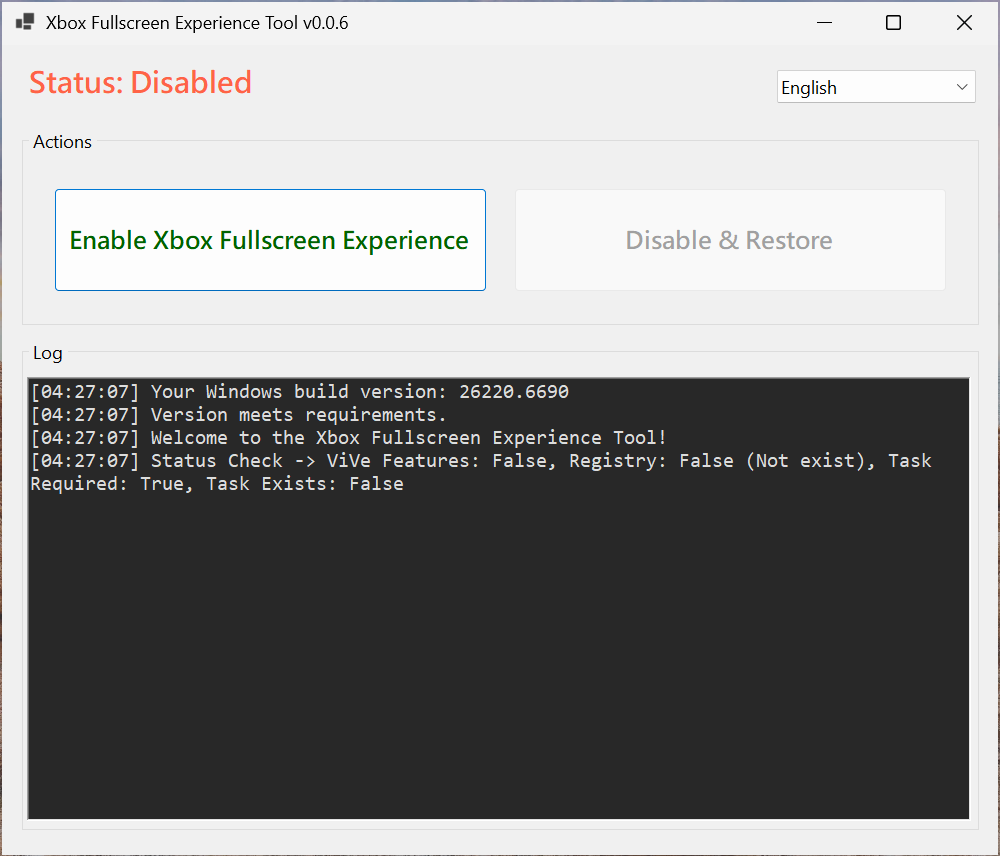
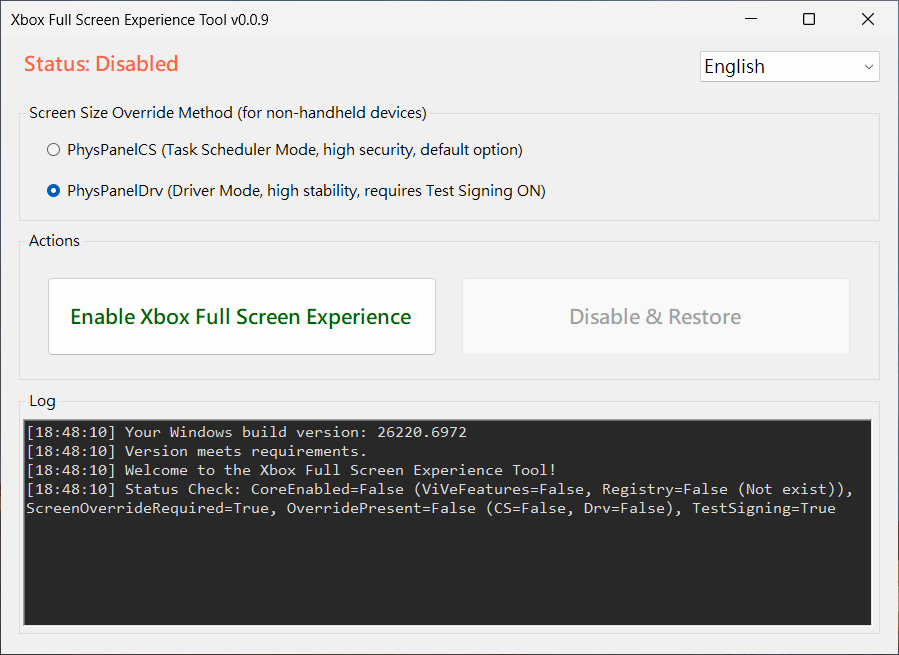
docs: Rework README for the new dual-mode override method
- Restructured the documentation to explain the two available override methods: the default Task Scheduler mode and the new, more robust Driver mode.
- Replaced the "Future Plans" section with a practical user guide, including detailed prerequisites for enabling Test Signing to use the `PhysPanelDrv` driver.
- Updated the minimum Windows build requirements to align with the new supported baseline.
- Revised the "Features" and "How to Use" sections to incorporate the mode selection workflow.

diff --git a/README.zh-TW.md b/README.zh-TW.md
@@ -11,10 +11,10 @@
 </p>
 
 <p align="center">
-<a href="https://github.com/8bit2qubit/XboxFullscreenExperienceTool/releases/latest"><img src="https://img.shields.io/github/v/release/8bit2qubit/XboxFullscreenExperienceTool?style=flat-square&color=blue" alt="最新版本"></a>
-<a href="https://github.com/8bit2qubit/XboxFullscreenExperienceTool/releases"><img src="https://img.shields.io/github/downloads/8bit2qubit/XboxFullscreenExperienceTool/total" alt="總下載量"></a>
+<a href="https://github.com/8bit2qubit/XboxFullScreenExperienceTool/releases/latest"><img src="https://img.shields.io/github/v/release/8bit2qubit/XboxFullScreenExperienceTool?style=flat-square&color=blue" alt="最新版本"></a>
+<a href="https://github.com/8bit2qubit/XboxFullScreenExperienceTool/releases"><img src="https://img.shields.io/github/downloads/8bit2qubit/XboxFullScreenExperienceTool/total" alt="總下載量"></a>
 <a href="#"><img src="https://img.shields.io/badge/tech-C%23%20%26%20.NET%208-blueviolet.svg?style=flat-square" alt="技術"></a>
-<a href="https://github.com/8bit2qubit/XboxFullscreenExperienceTool/blob/main/LICENSE"><img src="https://img.shields.io/github/license/8bit2qubit/XboxFullscreenExperienceTool" alt="授權條款"></a>
+<a href="https://github.com/8bit2qubit/XboxFullScreenExperienceTool/blob/main/LICENSE"><img src="https://img.shields.io/github/license/8bit2qubit/XboxFullScreenExperienceTool" alt="授權條款"></a>
 </p>
 
 一款簡單、安全的一鍵式工具，專為啟用 Windows 11 中隱藏的 Xbox 全螢幕遊戲體驗而生。本工具將繁複的底層設定全部自動化，讓您輕鬆享受專為遊戲手把最佳化的類主機介面。
@@ -31,44 +31,50 @@
 
 -----
 
-## 💡 未來規劃與技術挑戰
+## 💡 為桌機與筆電覆寫螢幕尺寸：選擇您的模式
 
-### 挑戰：為非掌上型裝置打造完美體驗
+Xbox 全螢幕體驗專為掌機尺寸的螢幕設計。若您使用的是**桌上型或筆記型電腦**，您的螢幕尺寸很可能超過支援範圍，此時就需要覆寫螢幕的實體尺寸。本工具為此提供了兩種模式。
 
-Xbox 全螢幕功能最適合小尺寸的掌上型裝置。若要在其他硬體上啟用此功能，就必須進行螢幕尺寸覆寫。這對於兩大主要使用者族群至關重要：一是**桌上型電腦**，其通常回報未定義 (0x0) 的實體尺寸；二是**筆記型電腦**，其螢幕幾乎總是大於 9.5 吋的掌機門檻。
+### 工作排程模式: `PhysPanelCS`
+此為預設選項，它簡單易用且無須額外的手動設定。它會在開機時排程一個工作來套用覆寫。然而，這在高速系統上會產生「競爭條件」(Race Condition)。如果您登入速度過快，Windows Shell 可能會在覆寫套用前就完成初始化，導致該次工作階段退回標準桌面。
 
-目前的方法是使用「工作排程器」在開機時套用此覆寫，將螢幕模擬為 7 吋大小，但這會產生「競爭條件」(Race Condition)。在一台配備高速 SSD 的電腦上，若您快速登入（特別是使用 Windows Hello），Windows Shell 會在覆寫成功套用前就完成初始化。結果就是，系統介面會以預設的螢幕設定啟動，導致該次登入無法啟用特殊的 Xbox 介面。
+### 驅動程式模式: `PhysPanelDrv`
+此進階模式使用一個自訂核心驅動程式，在系統開機的最早階段就套用螢幕尺寸覆寫，可徹底解決競爭條件問題。對於桌機與筆電，這是最穩定可靠的解決方案。
 
-### 解決方案與瓶頸
-
-終極的解決方案是一個名為 [`PhysPanelDrv`](https://github.com/8bit2qubit/PhysPanelDrv) 的核心驅動程式，它能在系統開機的最早階段就套用螢幕尺寸覆寫，從而徹底解決桌機與筆電上的競爭條件問題。然而，為了讓 Windows 信任此驅動程式，它需要來自高信譽來源的數位簽章，例如「EV 程式碼簽署憑證」（用以提交給微軟的證明流程），這對於獨立開發者而言是一個重大的技術障礙。**這意味著 `PhysPanelDrv` 目前是以概念驗證 (proof-of-concept) 的形式存在，而不是一個可公開發布的解決方案。**
+> #### **`PhysPanelDrv` 模式的前置作業**
+>
+> 安裝此**使用測試簽章的驅動程式**需要您手動停用「安全啟動」並啟用 Windows 的「測試簽署模式」。
+>
+> **步驟一：進入 BIOS 設定**
+> 1.  重新啟動電腦，在開機時按下指定按鍵 (通常是 `Del`, `F2`, `F10`, 或 `Esc`) 進入 BIOS/UEFI 設定。
+> 2.  找到並**關閉 Secure Boot (安全啟動)** 選項。
+> 3.  儲存設定並離開。
+>
+> **步驟二：啟用測試簽章**
+> 1.  電腦重啟進入 Windows 後，使用**系統管理員權限**打開終端機 (PowerShell 或 CMD)。
+> 2.  輸入以下指令，然後按下 Enter：
+>     ```
+>     bcdedit /set testsigning on
+>     ```
+> 3.  完成後，再次重新開機。
+>
+> 完成以上步驟後，您就可以在工具中選取 **`PhysPanelDrv`**。
 
 -----
 
 ## ⚙ 系統版本要求
 
-本工具**僅適用於 Windows 11 開發人員預覽版 (Dev Channel) 組建 `26220.6690` 或更新版本**。在不符要求的系統上，工具將提示錯誤並無法執行。
+本工具適用於 **Windows 11 Release Preview Channel 組建 `26200.7015` 或更新版本**。在不符要求的系統上，工具將提示錯誤並無法執行。
 
 > ### **如何判讀版本號 (非常重要！)**
 >
 > 當檢查版本時，**請務必查看小數點前的「主要版本號」**。小數點後的數字僅代表次要更新。
 >
-> * **不相容:** `26100.xxxx` (Release Build 24H2)
-> * **不相容:** `26200.xxxx` (Release Build 25H2)
-> * **相容:** `26220.6690` 或更新版本 (Dev Build 25H2)
+> *   **不相容:** `26100.xxxx` (Release Build 24H2)
+> *   **相容:** `26200.7015` 或更新版本 (Release Preview Build 25H2)
+> *   **相容:** `26220.6972` 或更新版本 (Dev Build 25H2)
 >
-> **範例：** `26200.6899` 這樣的版本是**不相容**的，因為它的主要版本號 **26200** 小於 (舊於) 所要求的 **26220**。
-
-> ### **為什麼只支援 Dev Channel？ (請務必閱讀)**
->
-> 這是一個常見問題。雖然 Xbox 全螢幕體驗功能也存在於其他版本中 (例如 25H2 正式版 `26200.xxxx`)，但決定僅支援 **Dev Channel** 是完全基於**品質與穩定性**的考量。
->
-> * **已知的問題 (Bug):** 非 Dev Channel 的版本存在著一些嚴重影響使用者體驗的錯誤，包括：
->     * **「工作檢視」介面** 的不穩定。
->     * **關閉應用程式時 (例如操作 'X' 按鈕)** 發生問題。
->     * 在 `26200.6899` 更新之前的版本，體驗尤其糟糕。
->
-> Dev Channel 提供了遠比其他版本更穩定、更成熟的功能實作。未來如果這些問題在公開版本中得到修復，將會考慮支援其他頻道。
+> **範例：** `26200.6899` 這樣的版本是**不相容**的，因為它的次要版本號 `.6899` 小於 (舊於) 所要求的 `.7015`。
 
 如果您的系統不符合需求，可參考此份完整的升級教學指南，其中引導您加入「Windows 測試人員計畫」並升級至正確的組建版本：
 * **[繁體中文指南 (Traditional Chinese Guide)](https://github.com/8bit2qubit/xbox-fullscreen-experience-guide/blob/main/README.zh-TW.md)**
@@ -77,7 +83,7 @@ Xbox 全螢幕功能最適合小尺寸的掌上型裝置。若要在其他硬體
 
 請在下載前確認您的作業系統版本。
 
-**[➡ 前往發行頁面下載最新版本](https://github.com/8bit2qubit/XboxFullscreenExperienceTool/releases/latest)**
+**[➡ 前往發行頁面下載最新版本](https://github.com/8bit2qubit/XboxFullScreenExperienceTool/releases/latest)**
 
 -----
 
@@ -94,9 +100,9 @@ Xbox 全螢幕功能最適合小尺寸的掌上型裝置。若要在其他硬體
 *   **一鍵切換**：提供直觀的介面，只需點選一次即可啟用或停用 Xbox 全螢幕體驗。
 *   **自動系統檢查**：啟動時自動驗證您的 Windows 組建版本，確保符合執行要求。
 *   **硬體類型模擬**：若您使用桌上型或筆記型電腦，工具會自動將裝置類型模擬為掌機，以滿足啟用條件。
+*   **可選覆寫模式**：為桌機與筆電提供 `PhysPanelCS` (工作排程模式) 或 `PhysPanelDrv` (驅動程式模式) 選項。
 *   **安全且完全可逆**：所有變更都會在停用或解除安裝時被還原。工具會備份初始設定，確保您的系統能無損恢復原狀。
 *   **標準化安裝**：提供標準的 `.msi` 安裝檔，便於版本管理與乾淨解除安裝。
-*   **全流程自動化**：所有步驟皆由工具自動完成，無需手動介入。
 
 -----
 
@@ -105,10 +111,12 @@ Xbox 全螢幕功能最適合小尺寸的掌上型裝置。若要在其他硬體
 本工具用於準備您的系統環境，最終的啟用步驟需要依照以下流程在 Windows 設定中完成。
 
 ### 1. 準備您的系統
-1.  從 **[發行頁面](https://github.com/8bit2qubit/XboxFullscreenExperienceTool/releases/latest)** 下載最新的 `.msi` 安裝檔。
+1.  從 **[發行頁面](https://github.com/8bit2qubit/XboxFullScreenExperienceTool/releases/latest)** 下載最新的 `.msi` 安裝檔。
 2.  執行安裝程式（過程需要系統管理員權限）。
-3.  從桌面捷徑啟動工具，並點選 `啟用 Xbox 全螢幕體驗` 按鈕。
-4.  **重新啟動**您的電腦以套用變更。
+3.  從桌面捷徑啟動工具。若使用桌機或筆電，請選擇您偏好的覆寫模式。
+    > **注意：** 如果您選擇 **`PhysPanelDrv`**，請務必先完成上述的前置作業。
+4.  點選 `啟用 Xbox 全螢幕體驗` 按鈕。
+5.  **重新啟動**您的電腦以套用變更。
 
 ### 2. 更新核心應用程式
 1.  電腦重啟後，開啟 **Microsoft Store**。
@@ -136,6 +144,7 @@ Xbox 全螢幕功能最適合小尺寸的掌上型裝置。若要在其他硬體
 *   **相依函式庫**:
     *   **ViVeLib (ViVeTool)**: 一個用於操控 Windows 功能組態 (Feature Flags) 的原生 API 封裝函式庫。以 Git Submodule 方式整合，原始碼來自 [thebookisclosed/ViVe](https://github.com/thebookisclosed/ViVe)，特此感謝。
     *   **PhysPanelLib**: 封裝 `ntdll.dll` 未公開 API，用以讀寫實體顯示面板 (Physical Panel) 尺寸資訊的函式庫。為本專案自研，其概念參考自 [riverar/physpanel](https://github.com/riverar/physpanel) 的 Rust 實作，特此感謝。
+    *   **PhysPanelDrv**: 一個輕量級的核心驅動程式，用於「驅動程式模式」以覆寫實體顯示面板尺寸，能可靠地模擬掌機螢幕大小。以 Git Submodule 方式整合，原始碼來自 [8bit2qubit/PhysPanelDrv](https://github.com/8bit2qubit/PhysPanelDrv)。
 *   **安裝套件**: Visual Studio Installer Projects (MSI)
 
 -----
@@ -158,8 +167,8 @@ Xbox 全螢幕功能最適合小尺寸的掌上型裝置。若要在其他硬體
 1.  **複製儲存庫**
 
     ```bash
-    git clone https://github.com/8bit2qubit/XboxFullscreenExperienceTool.git
-    cd XboxFullscreenExperienceTool
+    git clone https://github.com/8bit2qubit/XboxFullScreenExperienceTool.git
+    cd XboxFullScreenExperienceTool
     ```
 
 2.  **初始化子模組**
@@ -170,18 +179,18 @@ Xbox 全螢幕功能最適合小尺寸的掌上型裝置。若要在其他硬體
     ```
 
 3.  **在 Visual Studio 中開啟**
-    使用 Visual Studio 開啟 `XboxFullscreenExperienceTool.sln` 方案檔。
+    使用 Visual Studio 開啟 `XboxFullScreenExperienceTool.sln` 方案檔。
 
 4.  **執行以進行開發**
     在 Visual Studio 中，將組建組態設定為 `Debug`，然後按下 `F5` 來建置並執行應用程式。
 
 5.  **建置以用於生產**
-    當您準備好部署時，將組建組態切換至 `Release` 並建置方案。成品將會生成在 `XboxFullscreenExperienceTool/bin/Release` 資料夾下。
+    當您準備好部署時，將組建組態切換至 `Release` 並建置方案。成品將會生成在 `XboxFullScreenExperienceTool/bin/Release` 資料夾下。
 
 -----
 
 ## 📄 授權條款
 
-本專案採用 [GNU General Public License v3.0 (GPL-3.0)](https://github.com/8bit2qubit/XboxFullscreenExperienceTool/blob/main/LICENSE) 授權。
+本專案採用 [GNU General Public License v3.0 (GPL-3.0)](https://github.com/8bit2qubit/XboxFullScreenExperienceTool/blob/main/LICENSE) 授權。
 
 這意味著您可以自由地使用、修改與散佈本軟體，但任何基於此專案的衍生作品在散佈時，**也必須採用相同的 GPL-3.0 授權，並提供完整的原始碼**。更多詳情，請參閱 [GPL-3.0 官方條款](https://www.gnu.org/licenses/gpl-3.0.html)。

diff --git a/README.md b/README.md
@@ -32,45 +32,50 @@ By using this tool, you acknowledge and agree to the following:
 
 -----
 
-## 💡 Future Plans & Technical Challenges
+## 💡 Screen Override for PCs & Laptops: Choosing Your Method
 
-### The Challenge: Perfecting the Experience on Non-Handhelds
+The Xbox Full Screen Experience is designed for handheld-sized screens. If you are using a **desktop PC or a laptop**, your screen is likely larger than the supported size, requiring a screen dimension override. This tool offers two methods to achieve this.
 
-The Xbox Full Screen feature works best on small, handheld-sized screens. To enable it on other hardware, a screen size override is necessary. This is crucial for two main user groups: **desktop PCs**, which typically report undefined (0x0) physical dimensions, and **laptops**, whose screens are almost always larger than the 9.5-inch handheld threshold.
+### Task Scheduler Mode: `PhysPanelCS`
+This is the default method. It is easy to use and requires no additional manual setup. It schedules a task to apply the override at boot. However, this can create a race condition on fast systems. If you log in too quickly, the Windows Shell may initialize before the override is applied, causing it to fall back to the standard desktop for that session.
 
-The current method uses a Task Scheduler to apply this override at boot, simulating a 7-inch screen, but this creates a race condition. On a system with a fast SSD, if you log in quickly, especially using Windows Hello, the Windows Shell will initialize before the override is applied. As a result, the Shell starts with the default screen settings and fails to launch the special Xbox interface for that session.
+### Driver Mode: `PhysPanelDrv`
+This advanced mode uses a custom kernel driver to apply the override at the earliest stage of system boot, which completely eliminates the race condition. This is the most robust and reliable solution for desktops and laptops.
 
-### The Robust Solution vs. The Technical Barrier
-
-The definitive solution is a kernel driver, [`PhysPanelDrv`](https://github.com/8bit2qubit/PhysPanelDrv), which applies the screen size override at the earliest stage of system boot. This completely eliminates the race condition for desktops and laptops. For this driver to be trusted by Windows, it must pass Microsoft's driver attestation process. This requires a high-trust EV Code Signing Certificate just to submit, presenting a significant technical hurdle for an independent developer. **This means `PhysPanelDrv` currently exists as a proof-of-concept rather than a publicly distributable solution.**
+> #### **Prerequisites for `PhysPanelDrv` Mode**
+>
+> Installing this **test-signed driver** requires you to manually disable Secure Boot and enable Windows Test Signing Mode.
+>
+> **Step 1: Enter BIOS/UEFI Settings**
+> 1.  Restart your computer and press the designated key during boot (usually `Del`, `F2`, `F10`, or `Esc`) to enter the BIOS/UEFI setup.
+> 2.  Find and **disable** the **Secure Boot** option.
+> 3.  Save your changes and exit.
+>
+> **Step 2: Enable Test Signing in Windows**
+> 1.  Once your computer has restarted into Windows, open Terminal (PowerShell or Command Prompt) **as an administrator**.
+> 2.  Enter the following command and press Enter:
+>     ```
+>     bcdedit /set testsigning on
+>     ```
+> 3.  Restart your computer one more time to apply the change.
+>
+> After completing these steps, you can select **`PhysPanelDrv`** in the tool.
 
 -----
 
 ## ⚙ System Requirements
 
-This tool is **only compatible with Windows 11 Insider Dev Channel builds `26220.6690` or later**.
-If your system does not meet this requirement, the tool will display an error and exit.
+This tool is compatible with **Windows 11 Insider Release Preview Channel build `26200.7015` or later**. If your system does not meet this requirement, the tool will display an error and exit.
 
 > ### **How to Read Build Numbers (Important!)**
 >
 > When checking the version, **please look at the main build number (before the dot)**. The number *after* the dot is just a minor update revision.
 >
-> * **INCOMPATIBLE:** `26100.xxxx` (Release Build 24H2)
-> * **INCOMPATIBLE:** `26200.xxxx` (Release Build 25H2)
-> * **COMPATIBLE:** `26220.6690` or later (Dev Build 25H2)
+> *   **INCOMPATIBLE:** `26100.xxxx` (Release Build 24H2)
+> *   **COMPATIBLE:** `26200.7015` or later (Release Preview Build 25H2)
+> *   **COMPATIBLE:** `26220.6972` or later (Dev Build 25H2)
 >
-> **Example:** A build like `26200.6899` is **NOT** compatible because its main build **26200** is lower (older) than the required **26220**.
-
-> ### **Why is the Dev Channel Required? (Please Read)**
->
-> This is a common question. While the Xbox full screen feature is present in other builds (like Release 25H2, `26200.xxxx`), the decision to support the **Dev Channel** is strictly for quality and stability.
->
-> * **Known Bugs:** Non-Dev builds suffer from bugs that create a poor user experience. This includes:
->     * Instability with the **Task View**.
->     * Issues when **closing applications** (e.g., with the 'X' button).
->     * An exceptionally poor experience in `26200` builds prior to the `.6899` update.
->
-> The Dev Channel offers a far more stable and mature implementation. Support for other channels will be considered if these issues are resolved in future public builds.
+> **Example:** A build like `26200.6899` is **NOT** compatible because its revision `.6899` is lower than the required `.7015`.
 
 For a detailed walkthrough on joining the Windows Insider Program and upgrading to the correct build, refer to the following guide:
 * **[English Guide](https://github.com/8bit2qubit/xbox-fullscreen-experience-guide/blob/main/README.md)**
@@ -96,9 +101,9 @@ If you find this tool helpful, your support would be a great motivation for me t
 * **One-Click Toggle** – Simple interface to enable or disable the Xbox full screen experience.
 * **Automatic System Check** – Verifies your Windows build for compatibility at startup.
 * **Device Type Emulation** – Automatically simulates a handheld device type for activation on desktop or laptop systems.
+*   **Selectable Override Modes** – Choose between `PhysPanelCS` (Task Scheduler) or `PhysPanelDrv` (Driver) for PCs and laptops.
 * **Safe and Reversible** – All changes are fully reversible. Backups of original settings are created to ensure safe restoration.
 * **Standard Installation** – Distributed as a `.msi` installer for clean installation, management, and removal.
-* **Fully Automated Process** – Handles all steps automatically with no manual configuration required.
 
 -----
 
@@ -109,8 +114,10 @@ This tool prepares your system for the new mode. Final activation is done in Win
 ### 1. Prepare Your System
 1.  Download the latest `.msi` package from the [**Releases Page**](https://github.com/8bit2qubit/XboxFullScreenExperienceTool/releases/latest).
 2.  Run the installer (administrator privileges required).
-3.  Launch the tool from the desktop shortcut and click **“Enable Xbox Full Screen Experience”**.
-4.  **Restart your PC** for the changes to take effect.
+3.  Launch the tool from the desktop shortcut. If using a PC or laptop, select your preferred override mode.
+    > **Note:** If you choose **`PhysPanelDrv`**, ensure you have completed the prerequisites listed above first.
+4.  Click **“Enable Xbox Fullscreen Experience”**.
+5.  **Restart your PC** for the changes to take effect.
 
 ### 2. Update Core Apps
 1.  After restarting, open the **Microsoft Store**.
@@ -138,6 +145,7 @@ This tool prepares your system for the new mode. Final activation is done in Win
 * **Dependencies**:
   * **ViVeLib (ViVeTool)** – A native API wrapper for managing Windows Feature Flags. Integrated as a Git submodule from [thebookisclosed/ViVe](https://github.com/thebookisclosed/ViVe).
   * **PhysPanelLib** – A custom library for reading and writing physical panel size information via undocumented `ntdll.dll` APIs. Concept adapted from [riverar/physpanel](https://github.com/riverar/physpanel).
+  * **PhysPanelDrv** – A lightweight kernel driver for `PhysPanelDrv` (Driver Mode) that reliably overrides physical display dimensions, ensuring the system consistently simulates a handheld screen size. Integrated as a Git submodule from [8bit2qubit/PhysPanelDrv](https://github.com/8bit2qubit/PhysPanelDrv).
 * **Installer**: Visual Studio Installer Projects (MSI)
 
 -----
